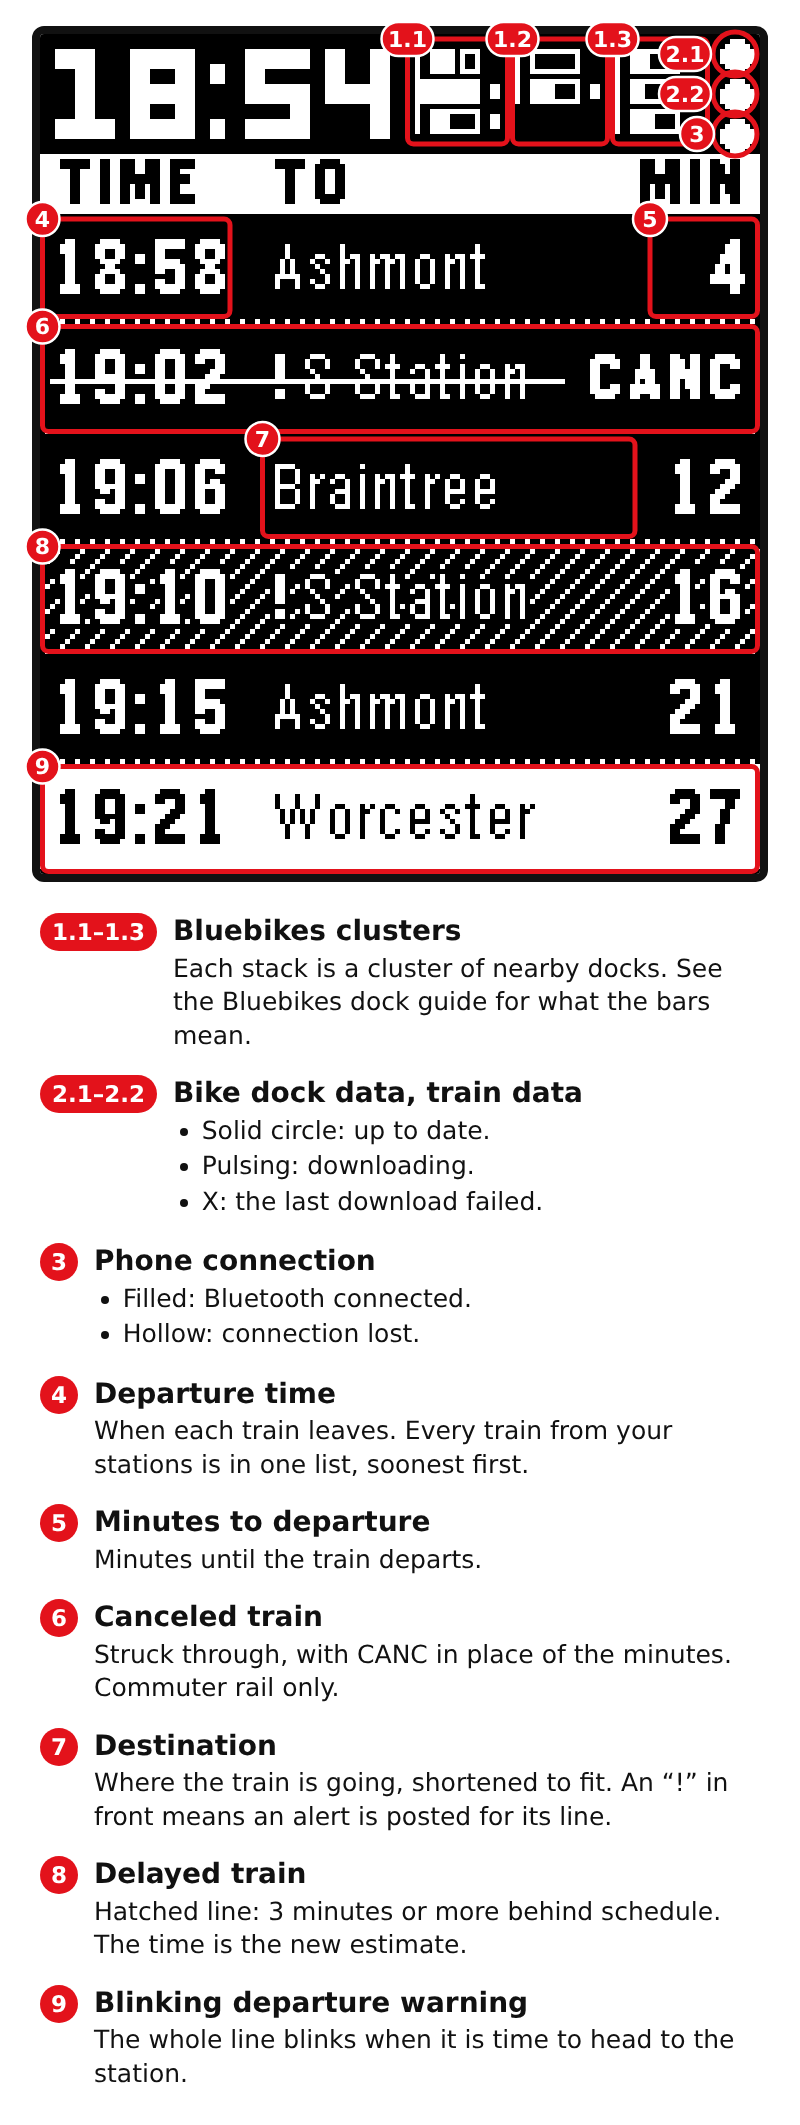
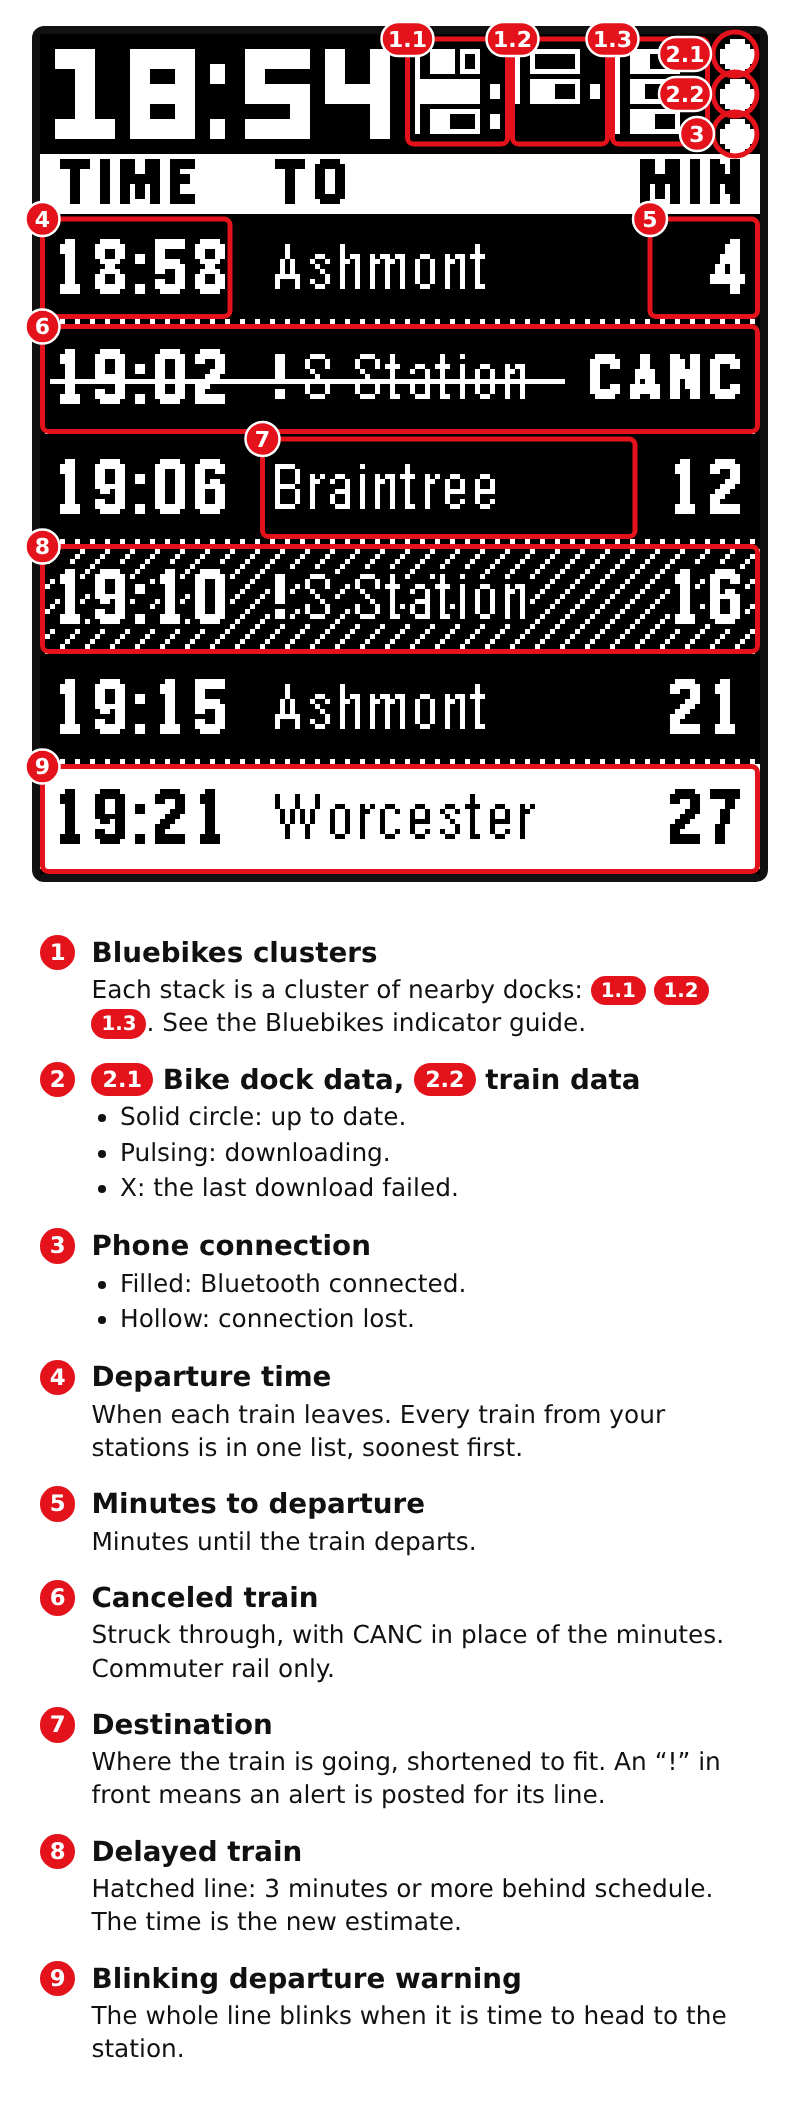
Guides: the narrow version is a scrolling phone page; sub-numbers named inline, shorter text
Claude-Session: https://claude.ai/code/session_018kUttcRWv8pxFU9anVHVt8

diff --git a/docs/watch-guide.html b/docs/watch-guide.html
@@ -1,14 +1,18 @@
 <!doctype html><meta charset="utf-8">
+<meta name="viewport" content="width=device-width,initial-scale=1">
+<title>MBTA Pebble watch guides</title>
 <!-- Source for the annotated guides. The hash picks the guide: #line (the
      default), #board or #dial. Render #c with a headless browser.
        #line  -> watch-guide.png   (screen: watch-screen.png)
        #board -> guide-board.png   (screen: screen-guide-board.png)
        #dial  -> guide-dial.png    (screen: screen-guide-dial.png)
-     Add -m for the narrow page for phones, e.g. #board-m -> guide-board-mobile.png.
+     Add -m for one guide as a narrow page, e.g. #board-m -> guide-board-mobile.png
+     (rendered 800px wide). #m, or opening the page on a phone, shows all three
+     narrow guides on one scrolling page.
      Each screen is a 144x168 capture of the watch showing demo data. -->
 <style>
 body{margin:0;background:#fff;font-family:"DejaVu Sans","Liberation Sans",sans-serif;color:#111}
-#c{position:relative;width:2000px;background:#fff}
+#c{position:relative;background:#fff}
 #w{position:absolute;image-rendering:pixelated;border:8px solid #111;border-radius:12px;margin:-8px}
 svg{position:absolute;left:0;top:0}
 .t{position:absolute;font-size:19px;line-height:1.32}
@@ -16,13 +20,18 @@ svg{position:absolute;left:0;top:0}
 .t ul{display:inline-block;margin:2px 0 0;padding-left:1.15em;text-align:left}
 .t li{margin:1px 0}
 .l{text-align:right}
-.m .e{display:flex;gap:16px;margin:0 0 22px;font-size:25px;line-height:1.34}
-.m .e b{display:block;font-size:28px;margin-bottom:2px}
-.m .n.wide{width:auto;padding:0 12px;border-radius:19px}
-.m .n{flex:none;width:38px;height:38px;border-radius:50%;background:#e3121b;color:#fff;font-weight:bold;font-size:23px;line-height:38px;text-align:center;margin-top:1px}
-.m ul{margin:2px 0 0;padding-left:1.15em}.m li{margin:2px 0}
+/* The narrow page fills the screen width up to 800px and scrolls. */
+.m{width:auto!important;max-width:800px;margin:0 auto;font-size:clamp(15px,3.1vw,25px);line-height:1.34}
+.m svg{position:static;display:block;width:100%;height:auto}
+.m h2{font-size:1.3em;margin:1.1em 5% .2em}
+.m .list{padding:1.2em 5% .6em}
+.m .e{display:flex;gap:.65em;margin:0 0 .85em}
+.m .e b{display:block;font-size:1.12em;margin-bottom:.08em}
+.m .n{flex:none;box-sizing:border-box;min-width:1.55em;padding:0 .3em;height:1.55em;border-radius:1em;background:#e3121b;color:#fff;font-weight:bold;font-size:.92em;line-height:1.55em;text-align:center;margin-top:.06em}
+.m .k{display:inline-block;background:#e3121b;color:#fff;font-weight:bold;font-size:.8em;line-height:1.5;padding:0 .5em;border-radius:1em;vertical-align:.08em}
+.m ul{margin:.1em 0 0;padding-left:1.15em}.m li{margin:.08em 0}
 </style>
-<div id="c"><img id="w" src="watch-screen.png"><svg id="s" width="2000"></svg></div>
+<div id="c"><img id="w" src="watch-screen.png"><svg id="s"></svg></div>
 <script>
 var K=6,X0=568,Y0=224,LX=504,RX=1496,GAP=16;
 function px(x){return X0+x*K} function py(y){return Y0+y*K}
@@ -34,7 +43,7 @@ var BIKE_DATA='- Solid circle: dock data is up to date.<br>- Pulsing: downloadin
 var TRAIN_DATA='- Solid circle: timetables are up to date.<br>- Pulsing: downloading (every 2 minutes).<br>- X: the last download failed.';
 var PHONE='- Filled: Bluetooth connection stable.<br>- Hollow: lost Bluetooth connection.';
 var GUIDES={
-line:{img:'watch-screen.png',y0:224,items:[
+line:{name:'Line by line',img:'watch-screen.png',y0:224,items:[
  {side:'l',top:1,title:'Bluebikes docks',body:'Each circle is a pie chart for one Bluebikes dock, chosen in the watchface settings. The solid slice is the share of dock slots holding a bike. Orbiting dots are available e-bikes, one dot each.',box:[26.5,-1.5,78,11]},
  {side:'l',title:'Bike dock nearly full',body:'- A hollow square means almost full: one free parking space.<br>- A solid square means completely full: no free parking space.',box:[1,-1.5,25.5,11],ty:259},
  {side:'l',title:'Train timetable header',body:'Station &gt; direction. The line, station and direction are configured in the watchface settings. This example shows commuter rail rows, which display departure times as HH:MM. The watch here is set to a 24-hour clock (military time).',box:[1,45.5,106,58.5]},
@@ -51,8 +60,8 @@ line:{img:'watch-screen.png',y0:224,items:[
  {side:'r',title:'Subway destination letter',body:'Shown where a line splits.<br>- Red Line southbound: A = Ashmont, B = Braintree.<br>- Green Line: B = Boston College, C = Cleveland Circle, D = Riverside, E = Heath Street.<br>- Other lines have no letter.',circ:[131,155.5,6.5]}
 ],
 mobile:[
- {title:'Bluebikes docks',body:'One shape for each dock. See the Bluebikes dock guide for what the shapes mean.',marks:[{box:[1,-1.5,78,11]}]},
- {title:'Bike dock data, train data',body:'- Solid circle: up to date.<br>- Pulsing: downloading.<br>- X: the last download failed.',marks:[{circ:[115.5,6,5],badge:[115.5,15.5]},{circ:[126.5,6,5],badge:[126.5,15.5]}]},
+ {title:'Bluebikes docks',body:'One shape for each dock. See the Bluebikes indicator guide.',marks:[{box:[1,-1.5,78,11]}]},
+ {title:'{1} Bike dock data, {2} train data',body:'- Solid circle: up to date.<br>- Pulsing: downloading.<br>- X: the last download failed.',marks:[{circ:[115.5,6,5],badge:[115.5,15.5]},{circ:[126.5,6,5],badge:[126.5,15.5]}]},
  {title:'Phone connection',body:'- Filled: Bluetooth connected.<br>- Hollow: connection lost.',marks:[{circ:[137.5,6,5],badge:[139,15.5]}]},
  {title:'Train timetable header',body:'Station &gt; direction, set in the watchface settings.',marks:[{box:[1,45.5,106,58.5]}]},
  {title:'Departure countdown',body:'Minutes until the next train departs.',marks:[{box:[117,45.5,143,58.5]}]},
@@ -64,7 +73,7 @@ mobile:[
  {title:'Subway timetables',body:'Subway trains are shown as minutes to departure.',marks:[{box:[11.5,145,35,164.5]}]},
  {title:'Subway destination letter',body:'Shown where a line splits.<br>- Red Line southbound: A = Ashmont, B = Braintree.<br>- Green Line: the B, C, D or E branch.',marks:[{circ:[131,155.5,6.5],badge:[139,148]}]}
 ]},
-board:{img:'screen-guide-board.png',y0:250,items:[
+board:{name:'Departure board',img:'screen-guide-board.png',y0:250,items:[
  {side:'l',top:1,title:'Bluebikes clusters',body:'Each stack is a cluster of nearby Bluebikes docks, chosen in the watchface settings, and each bar is one dock. A bar fills from the left with the share of dock slots holding a bike. A dot to the right of a bar means e-bikes are available.',box:[94.5,1,133.5,22]},
  {side:'l',top:2,title:'Bike dock nearly full',body:'- A solid bar with one open cell at its end means almost full: one free parking space.<br>- A solid bar that touches the cluster’s line means completely full: no free parking space.',box:[73.5,1,93.5,22]},
  {side:'l',title:'Departure time',body:'Every train from your three stations is in one list, soonest first, up to six trains. This is when each one leaves. The watch here is set to a 24-hour clock (military time).',box:[0.5,37,38,56.5],ty:520},
@@ -78,8 +87,8 @@ board:{img:'screen-guide-board.png',y0:250,items:[
  {side:'r',title:'Delayed train',body:'If a train is marked delayed (3 minutes or more behind schedule), its line is hatched. The time shown is the new estimated departure.',box:[0.5,102.5,143.5,123.5],ty:940}
 ],
 mobile:[
- {title:'Bluebikes clusters',body:'Each stack is a cluster of nearby docks. See the Bluebikes dock guide for what the bars mean.',sub:1,marks:[{box:[73.5,1,93.5,22]},{box:[94.5,1,113.5,22]},{box:[114.5,1,133.5,22]}]},
- {title:'Bike dock data, train data',body:'- Solid circle: up to date.<br>- Pulsing: downloading.<br>- X: the last download failed.',sub:1,marks:[{circ:[139,4,4.4]},{circ:[139,12,4.4]}]},
+ {title:'Bluebikes clusters',body:'Each stack is a cluster of nearby docks: {1} {2} {3}. See the Bluebikes indicator guide.',marks:[{box:[73.5,1,93.5,22]},{box:[94.5,1,113.5,22]},{box:[114.5,1,133.5,22]}]},
+ {title:'{1} Bike dock data, {2} train data',body:'- Solid circle: up to date.<br>- Pulsing: downloading.<br>- X: the last download failed.',marks:[{circ:[139,4,4.4]},{circ:[139,12,4.4]}]},
  {title:'Phone connection',body:'- Filled: Bluetooth connected.<br>- Hollow: connection lost.',marks:[{circ:[139,20,4.4]}]},
  {title:'Departure time',body:'When each train leaves. Every train from your stations is in one list, soonest first.',marks:[{box:[0.5,37,38,56.5]}]},
  {title:'Minutes to departure',body:'Minutes until the train departs.',marks:[{box:[122,37,143.5,56.5]}]},
@@ -88,7 +97,7 @@ mobile:[
  {title:'Delayed train',body:'Hatched line: 3 minutes or more behind schedule. The time is the new estimate.',marks:[{box:[0.5,102.5,143.5,123.5]}]},
  {title:'Blinking departure warning',body:'The whole line blinks when it is time to head to the station.',marks:[{box:[0.5,146.5,143.5,167.5]}]}
 ]},
-dial:{img:'screen-guide-dial.png',y0:150,items:[
+dial:{name:'Hour dial',img:'screen-guide-dial.png',y0:150,items:[
  {side:'l',title:'Bluebikes clusters',body:'Three corners each hold one cluster of nearby Bluebikes docks: cluster 1 top left, cluster 2 top right, cluster 3 bottom left. Each bar is one dock and fills from the left with the share of dock slots holding a bike.<br>- A solid bar touching the line is a full dock.<br>- A solid bar with one open cell has one free parking space.',box:[2.5,2.5,23.5,22.5]},
  {side:'l',title:'Canceled train',body:'A crossed circle marks a canceled train. Only shown for commuter rail: subway trains are regularly canceled and rescheduled.',circ:[46.6,32.8,6.5]},
  {side:'l',title:'Time left to leave',body:'If the departure warning is enabled in the watchface settings, a bar appears beside the hand when it is time to head to the station. It ends where the hand will be at your minimum time to leave, so it shrinks to nothing as the hand closes in. It pulses between bold and thin.',box:[0.5,73,9,95]},
@@ -103,29 +112,37 @@ dial:{img:'screen-guide-dial.png',y0:150,items:[
  {side:'r',title:'Phone connection',body:PHONE,circ:[136,160,4.4],ty:1165}
 ],
 mobile:[
- {title:'Bluebikes clusters',body:'One cluster of nearby docks in each corner. See the Bluebikes dock guide for what the bars mean.',sub:1,marks:[{box:[2.5,2.5,23.5,22.5]},{box:[120.5,2.5,141.5,22.5]},{box:[2.5,144.5,23.5,165.5]}]},
+ {title:'Bluebikes clusters',body:'One cluster of nearby docks in each corner: {1} {2} {3}. See the Bluebikes indicator guide.',marks:[{box:[2.5,2.5,23.5,22.5]},{box:[120.5,2.5,141.5,22.5]},{box:[2.5,144.5,23.5,165.5]}]},
  {title:'Minutes to departure',body:'Minutes until each station’s next departure. Changes sides at quarter past and quarter to.',marks:[{box:[61,10.5,83,41.5]}]},
  {title:'Canceled train',body:'A crossed circle. Commuter rail only.',marks:[{circ:[46.6,32.8,6.5]}]},
  {title:'The train to leave for',body:'Its dot blinks, and a thin line runs to it from the bar beside the hand.',marks:[{circ:[134.8,58,8]}]},
  {title:'Time left to leave',body:'A bar beside the hand when it is time to head to the station. It shrinks to nothing as the hand closes in.',marks:[{box:[0.5,73,9,95],badge:[5,69]}]},
  {title:'The hand',body:'Points at the current minute. Trains just clockwise of it leave soonest.',marks:[{circ:[15,94.6,4.5],badge:[15,103]}]},
- {title:'Station rings',body:'One ring for each station. The first station is the outer ring.',marks:[{box:[115,100,143,111]}]},
+ {title:'Station rings',body:'One ring for each station: {1} station 1, {2} station 2, {3} station 3.',marks:[{circ:[138.5,98.1,3.2],badge:[136,90.5]},{circ:[125,107.6,3.2],badge:[125,115]},{circ:[100.2,122.8,3.2],badge:[107,129.5]}]},
  {title:'Trains',body:'Each dot is a train, at the minute it departs. Only the next hour is shown.',marks:[{circ:[39,118.8,6.5]}]},
  {title:'Delayed train',body:'A hollow circle: 3 minutes or more behind schedule.',marks:[{circ:[91.6,137.5,6.5]}]},
- {title:'Bike dock data, train data',body:'- Solid circle: up to date.<br>- Pulsing: downloading.<br>- X: the last download failed.',sub:1,marks:[{circ:[136,144,4.4]},{circ:[136,152,4.4]}]},
+ {title:'{1} Bike dock data, {2} train data',body:'- Solid circle: up to date.<br>- Pulsing: downloading.<br>- X: the last download failed.',marks:[{circ:[136,144,4.4]},{circ:[136,152,4.4]}]},
  {title:'Phone connection',body:'- Filled: Bluetooth connected.<br>- Hollow: connection lost.',marks:[{circ:[136,160,4.4]}]}
 ]}
 };
-// The hash picks the guide and the layout: "board" is the full guide with
-// callouts on both sides. "board-m" is the narrow page for small screens: the
-// watch with numbered markers, and a shorter numbered list underneath, taken
-// from the guide's `mobile` entries.
-var parts=location.hash.slice(1).split('-'),guide=GUIDES[parts[0]]||GUIDES.line,half=parts[1]||'';
-var items=guide.items;
+// The hash picks what is shown:
+//   #board     the wide guide, callouts on both sides (also #line, #dial)
+//   #board-m   that guide as a narrow page: numbered markers, shorter list
+//   #m         all three narrow guides on one scrolling page; this is also
+//              what a phone gets when the page is opened without a hash.
+var hash=location.hash.slice(1),parts=hash.split('-');
+var ALL=hash==='m'||(!hash&&Math.min(window.innerWidth,screen.width)<900);
+var guide=GUIDES[parts[0]]||GUIDES.line,items=guide.items;
 var c=document.getElementById('c'),w=document.getElementById('w'),R='#e3121b';
 var W=2000,TW=470,TL=20,TR=1510;
-c.style.width=W+'px';w.src=guide.img;
-if(half){narrow();}else{wide();}
+if(ALL||parts[1]==='m'){
+  w.remove();document.getElementById('s').remove();c.className='m';
+  c.innerHTML=(ALL?['line','board','dial']:[parts[0]]).map(narrow).join('');
+}else{
+  c.style.width=W+'px';w.src=guide.img;Y0=guide.y0;
+  w.style.left=X0+'px';w.style.top=Y0+'px';w.style.width=144*K+'px';w.style.height=168*K+'px';
+  wide();
+}
 
 function bodyHtml(text){
   var out='',open=false;
@@ -144,8 +161,6 @@ items.forEach(function(it){
   it.el.innerHTML='<b>'+it.title+'</b>'+bodyHtml(it.body);c.appendChild(it.el);
   it.h=it.el.offsetHeight;
 });
-Y0=guide.y0;
-w.style.left=X0+'px';w.style.top=Y0+'px';w.style.width=144*K+'px';w.style.height=168*K+'px';
 items.forEach(function(it){
   if(it.box) it.b={x1:px(it.box[0]),y1:py(it.box[1]),x2:px(it.box[2]),y2:py(it.box[3])};
   else{var r=it.circ[2]*K;it.b={x1:px(it.circ[0])-r,y1:py(it.circ[1])-r,x2:px(it.circ[0])+r,y2:py(it.circ[1])+r,c:1};}
@@ -184,11 +199,13 @@ items.forEach(function(it){
 c.style.height=H+'px';var sv=document.getElementById('s');sv.setAttribute('width',W);sv.setAttribute('height',H);sv.innerHTML=svg;
 }
 
-function narrow(){
-  K=5;X0=40;Y0=34;W=144*K+2*X0;
-  c.className='m';c.style.width=W+'px';
-  w.style.left=X0+'px';w.style.top=Y0+'px';w.style.width=144*K+'px';w.style.height=168*K+'px';
-  var entries=guide.mobile;
+// The narrow page. Everything on the watch is drawn inside one SVG with a
+// fixed 800-unit-wide coordinate system, so the picture and its markers scale
+// together to the width of the screen; the list underneath is ordinary text.
+function narrow(key){
+  var g=GUIDES[key],NW=800,BR=17;
+  K=5;X0=40;Y0=34;
+  var entries=g.mobile;
   entries.forEach(function(e){
     e.marks.forEach(function(m){
       if(m.box) m.b={x1:px(m.box[0]),y1:py(m.box[1]),x2:px(m.box[2]),y2:py(m.box[3])};
@@ -198,17 +215,22 @@ function narrow(){
     e.at=Math.floor(Math.min.apply(null,e.marks.map(function(m){return (m.b.y1+m.b.y2)/2}))/110);
   });
   // Numbered down the watch, top to bottom. An entry with several marks
-  // numbers them 1.1, 1.2 and so on.
+  // numbers them 1.1, 1.2 and so on, and names each one in its text with {1}, {2}.
   entries.sort(function(a,b){return a.at-b.at||a.marks[0].b.x1-b.marks[0].b.x1});
-  var BR=17,svg='',list='<div class="list" style="padding:'+(Y0+168*K+38)+'px '+X0+'px 12px">';
   function badge(x,y,text){
     var bw=Math.max(2*BR,16+text.length*12);
-    x=Math.max(bw/2+2,Math.min(W-bw/2-2,x));y=Math.max(BR+2,y);
+    x=Math.max(bw/2+2,Math.min(NW-bw/2-2,x));y=Math.max(BR+2,y);
     return '<rect x="'+(x-bw/2)+'" y="'+(y-BR)+'" width="'+bw+'" height="'+2*BR+'" rx="'+BR+'" fill="'+R+'" stroke="#fff" stroke-width="2.5"/>'+
            '<text x="'+x+'" y="'+(y+7.5)+'" text-anchor="middle" font-size="22" font-weight="bold" fill="#fff">'+text+'</text>';
   }
+  var SH=Y0+168*K+30;
+  var svg='<rect x="'+(X0-8)+'" y="'+(Y0-8)+'" width="'+(144*K+16)+'" height="'+(168*K+16)+'" rx="12" fill="#111"/>'+
+          '<image href="'+g.img+'" x="'+X0+'" y="'+Y0+'" width="'+144*K+'" height="'+168*K+'" style="image-rendering:pixelated"/>';
+  var list='',badges='';
   entries.forEach(function(e,i){
-    var badges='';
+    function inline(text){
+      return text.replace(/\{(\d)\}/g,function(_,k){return '<span class="k">'+(i+1)+'.'+k+'</span>'});
+    }
     e.marks.forEach(function(m,k){
       var b=m.b,cx=(b.x1+b.x2)/2,cy=(b.y1+b.y2)/2,r=(b.x2-b.x1)/2,bx,by;
       var text=(i+1)+(e.marks.length>1?'.'+(k+1):'');
@@ -221,12 +243,10 @@ function narrow(){
       else{bx=b.x1;by=b.y1;}
       badges+=badge(bx,by,text);
     });
-    svg+=badges;
-    var label=e.marks.length>1?(i+1)+'.1–'+(i+1)+'.'+e.marks.length:(i+1);
-    list+='<div class="e"><span class="n'+(e.marks.length>1?' wide':'')+'">'+label+'</span><div><b>'+e.title+'</b>'+bodyHtml(e.body)+'</div></div>';
+    list+='<div class="e"><span class="n">'+(i+1)+'</span><div><b>'+inline(e.title)+'</b>'+bodyHtml(inline(e.body))+'</div></div>';
   });
-  c.insertAdjacentHTML('beforeend',list+'</div>');
-  var sv=document.getElementById('s');
-  sv.setAttribute('width',W);sv.setAttribute('height',Y0+168*K+30);sv.innerHTML=svg;
+  return '<section class="g"'+(g.name?' id="'+key+'"':'')+'>'+(ALL?'<h2>'+g.name+'</h2>':'')+
+         '<svg viewBox="0 0 '+NW+' '+SH+'" xmlns="http://www.w3.org/2000/svg">'+svg+badges+'</svg>'+
+         '<div class="list">'+list+'</div></section>';
 }
 </script>
